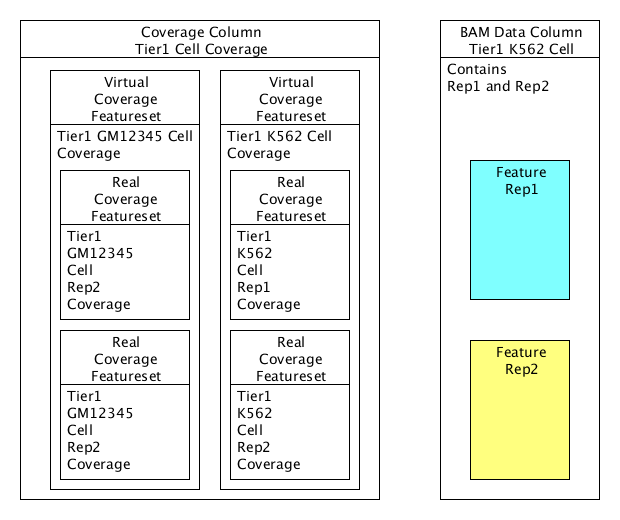
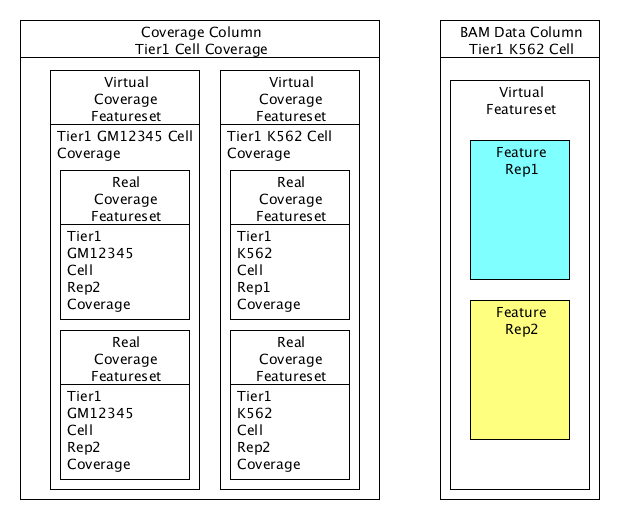
docs update for BAM config, fix to repeat draw features due to race conditon in view request merge and display

diff --git a/docs/IntWeb/Design/notes/data_config.html b/docs/IntWeb/Design/notes/data_config.html
@@ -68,6 +68,16 @@ Currently in a heatmap features are displayed in one canvas item which is named 
 </p>
 <p>This also means we keep all the processing of coverage data internal to ZMap.
 </p>
+<h6>Short reads data also need a virtual featureset</h6>
+<p>
+A subsequent re-implementation of the basic features display code requires a similar process when more than one short reads featureset is to be displayed in one column.  This is simple than the coverage configuration above as it requires only one virtual featureset.  See the diagram below and box for sample confiurgation.  The virtual featureset is needed to avoid data from different real featuresets overlapping when bumped.
+</p>
+<p>The difference between BAM coverage and data columns for the user is that coverage colums appear in the load columns dialog, and have several featuresets summarise in heatmap sub-columns, and data columns have the real features intermingled in the same column. Data may be requested via the coverage column menu. Both may only be requested for the mark.
+</p>
+<p><b>NOTE</b> that this is an interim solution and will change in the near future.
+</p>
+
+
 <p>
 Here is a picture of some sample featuresets and columns as needed for ENCODE data:
 <img src="Design/notes/virtual_fset.png" class="img" alt="column config example">
@@ -78,22 +88,36 @@ Configuration:
 # These are virtual featuresets; data from several real featuresets is intermingled into one heatmap
 # Each heatmap is displayed staggered in one column
 Tier1_K562_Cell_coverage = Tier1_K562_Cell_Rep1_Coverage; Tier1_K562_Cell_Rep2_Coverage
-Tier1_GM12345_Cell_coverage  =Tier1_GM12345_Cell_Coverage; Tier1_GM12345_Cell_Rep2_Coverage
+Tier1_GM12345_Cell_coverage  = Tier1_GM12345_Cell_Coverage; Tier1_GM12345_Cell_Rep2_Coverage
+
+# this is a virtual featureset that holds all the data from several real ones
+# data is displayed as normal basic features
+Tier1_K562_Cell_features = Tier1_K562_Cell_Rep1; Tier1_K562_Cell_Rep2
+
 
 [Columns]
-# The data column contains two featuresets: data is intermingled
-Tier1_K562_Cell = Tier1_K562_Cell_Rep1; Tier1_K562_Cell_Rep2
+# The data column contains two featuresets: data is intermingled but stored in a virutal featureset
+Tier1_K562_Cell = Tier1_K562_Cell_features
+
 # The coverage column contains some virtual featuresets
 Tier1_Cell_Coverage = Tier1_K562_Cell_coverage; Tier1_GM12345_Cell_coverage
+
 
 [Featureset-related]
 # we relate the virtual coverage featureset to the data column
 Tier1_K562_Cell_related = Tier1_K562_Cell
+
+# we also need to ensure that data may only be request from the mark and does not appea on the load columns dialog.
+[ZMap]
+seq_data = Tier1_K562_Cell_features; Tier1_K562_Cell_Rep1; Tier1_K562_Cell_Rep2
+columns = Tier1_Cell_Coverage
 </pre>
 Result:<br />
 When we right click on a coverage featureset (happens to be virtual)
-we request a related column, that contains some real featuresets
+we request a related column, that contains some real featuresets.
 </p>
+
+
 
 <h5>Notes from implementation</h5>
 <p>This is quite instructive in the sense that we can see how complex the configuration is and how it has become tangled.  There are a few places in the code where it has been necessary to invent ACEDB style configuration data as it is needed for various functions, and this at times can overwrite the data read in at startup.  <b>NOTE</b>:What appears here may only be partial documentation.

diff --git a/src/zmapView/zmapView.c b/src/zmapView/zmapView.c
@@ -390,7 +390,6 @@ ZMapViewWindow zMapViewCreate(GtkWidget *xremote_widget, GtkWidget *view_contain
 
   zmap_view->context_map.column_2_styles = zMap_g_hashlist_create() ;
 
-
   return view_window ;
 }
 
@@ -2393,7 +2392,6 @@ static ZMapView createZMapView(GtkWidget *xremote_widget, char *view_name, GList
 
   zmap_view->session_data->sequence = zmap_view->view_sequence->sequence ;
 
-
   return zmap_view ;
 }
 
@@ -4015,6 +4013,17 @@ static gboolean justMergeContext(ZMapView view, ZMapFeatureContext *context_inou
 
   zMapStartTimer("Merge Context","") ;
 
+  if(!view->features)
+  {
+	/* we need a context with a master_align with a block, all with valid sequence coordinates */
+	/* this is all back to front, we only know what we requested when the answer comes back */
+	/* and we need to have asked the same qeusrtion 3 times */
+	ZMapFeatureBlock block = zMap_g_hash_table_nth(new_features->master_align->blocks, 0) ;
+
+	view->features = zMapFeatureContextCopyWithParents((ZMapFeatureAny) block) ;
+  }
+
+
   if(!view->view_sequence->end)
     {
       view->view_sequence->start = new_features->master_align->sequence_span.x1;
@@ -4102,10 +4111,13 @@ static gboolean justMergeContext(ZMapView view, ZMapFeatureContext *context_inou
 	  char *y = (char *) g_quark_to_string(GPOINTER_TO_UINT(l->data));
 	  x = g_strconcat(x," ",y,NULL);
 	}
-      zMapLogWarning(x,"");
+//      zMapLogWarning(x,"");
+printf("%s\n",x);
+
     }
 
-  merge = zMapFeatureContextMerge(&(view->features), &new_features, &diff_context,featureset_names) ;
+  merge = zMapFeatureContextMerge(&(view->features), &new_features, &diff_context, featureset_names) ;
+
 
   //  printf("just Merge view = %s\n",zMapFeatureContextGetDNAStatus(view->features) ? "yes" : "non");
   //  printf("just Merge diff = %s\n",zMapFeatureContextGetDNAStatus(diff_context) ? "yes" : "non");
@@ -4139,6 +4151,7 @@ static gboolean justMergeContext(ZMapView view, ZMapFeatureContext *context_inou
 	      x = g_strconcat(x,",",y,NULL);
 	    }
 	  zMapLogWarning(x,"");
+	  printf("%s\n",x);
 	}
 
       // mask ESTs with mRNAs if configured
@@ -4415,6 +4428,7 @@ static ZMapFeatureContext createContext(ZMapFeatureSequenceMap sequence, GList *
 
 
   /* Add other alignments if any were specified in a config file. */
+  /* NOTE it's iffed out */
   addAlignments(context) ;
 
 

diff --git a/src/zmapWindow/items/zmapWindowCanvasFeaturesetBump.c b/src/zmapWindow/items/zmapWindowCanvasFeaturesetBump.c
@@ -336,10 +336,10 @@ gboolean zMapWindowCanvasFeaturesetBump(ZMapWindowCanvasItem item, ZMapStyleBump
 		break;
 	}
 
-
 	/* in case we get a bump before a paint eg in initial display */
       if(!featureset->display_index)
 	  zMapWindowCanvasFeaturesetIndex(featureset);
+
 
 	/* process all features */
 
@@ -428,6 +428,7 @@ gboolean zMapWindowCanvasFeaturesetBump(ZMapWindowCanvasItem item, ZMapStyleBump
 
 	featureset->bumped = TRUE;
 	featureset->bump_width = bump_data->offset;
+	featureset->bump_mode = bump_mode;
 
 	switch(bump_mode)
 	{
@@ -469,11 +470,9 @@ gboolean zMapWindowCanvasFeaturesetBump(ZMapWindowCanvasItem item, ZMapStyleBump
 			{
 				/* feature->bump offset is really column index till we set it here */
 				width = (double) GPOINTER_TO_UINT( g_hash_table_lookup( sub_col_width_G, GUINT_TO_POINTER( (int) feature->bump_col)));
-printf("offset feature %s @ %p %f,%f %d = %f\n",g_quark_to_string(feature->feature->unique_id),feature,feature->y1,feature->y2,(int) feature->bump_col, width);
+//printf("offset feature %s @ %p %f,%f %d = %f\n",g_quark_to_string(feature->feature->unique_id),feature,feature->y1,feature->y2,(int) feature->bump_col, width);
 				feature->bump_offset = width;
 			}
-			else
-				printf("bump feature flags = %lx\n",feature->flags);
 		}
 
 
@@ -486,6 +485,7 @@ printf("offset feature %s @ %p %f,%f %d = %f\n",g_quark_to_string(feature->featu
 	default:
 		break;
 	}
+//	printf("bump 3: %s %d\n",g_quark_to_string(featureset->id),zMapSkipListCount(featureset->display_index));
 
 	if(featureset->bump_width + featureset->dx > ZMAP_WINDOW_MAX_WINDOW)
 	{
@@ -589,7 +589,7 @@ BCR bump_overlap(ZMapWindowCanvasFeature feature, BumpFeatureset bump_data, BCR 
   if(width < bump_data->width)
   	g_hash_table_replace(sub_col_width_G, GUINT_TO_POINTER(new_range->column), GUINT_TO_POINTER((int) bump_data->width));
 
-  printf("feature %s @ %p %f,%f col %d\n",g_quark_to_string(feature->feature->unique_id),feature,feature->y1,feature->y2,new_range->column);
+//  printf("feature %s @ %p %f,%f col %d\n",g_quark_to_string(feature->feature->unique_id),feature,feature->y1,feature->y2,new_range->column);
   return pos_list;
 }
 

diff --git a/src/zmapFeature/zmapFeatureContext.c b/src/zmapFeature/zmapFeatureContext.c
@@ -1052,6 +1052,42 @@ static void revCompFeature(ZMapFeature feature, int start_coord, int end_coord)
 }
 
 
+static ZMapFeatureContextExecuteStatus print_featureset_name(GQuark key,
+                                                               gpointer data,
+                                                               gpointer user_data,
+                                                               char **error_out)
+{
+  ZMapFeatureAny feature_any = (ZMapFeatureAny)data;
+  ZMapFeatureSet       feature_set   = NULL;
+  ZMapFeatureStructType feature_type = ZMAPFEATURE_STRUCT_INVALID;
+  ZMapFeatureContextExecuteStatus status = ZMAP_CONTEXT_EXEC_STATUS_DONT_DESCEND;
+
+  feature_type = feature_any->struct_type;
+
+  switch(feature_type)
+    {
+    case ZMAPFEATURE_STRUCT_FEATURESET:
+      feature_set = (ZMapFeatureSet)feature_any;
+      printf("    featureset %s\n",g_quark_to_string(feature_set->unique_id));
+
+    case ZMAPFEATURE_STRUCT_CONTEXT:
+    case ZMAPFEATURE_STRUCT_ALIGN:
+    case ZMAPFEATURE_STRUCT_BLOCK:
+	status = ZMAP_CONTEXT_EXEC_STATUS_OK;
+      break;
+    default:
+      break;
+    }
+
+  return status;
+}
+
+void zMapPrintContextFeaturesets(ZMapFeatureContext context)
+{
+	zMapFeatureContextExecute((ZMapFeatureAny) context,
+                               ZMAPFEATURE_STRUCT_FEATURESET,
+                               print_featureset_name, NULL);
+}
 
 #ifdef RDS_TEMPLATE_USER_DATALIST_FOREACH
 /* Use this function while descending through a feature context */
@@ -1067,9 +1103,8 @@ static ZMapFeatureContextExecuteStatus templateDataListForeach(GQuark key,
   ZMapFeatureSet       feature_set   = NULL;
   ZMapFeature          feature_ft    = NULL;
   ZMapFeatureStructType feature_type = ZMAPFEATURE_STRUCT_INVALID;
-  ZMapFeatureContextExecuteStatus status = ZMAP_CONTEXT_EXEC_STATUS_ERROR;
+  ZMapFeatureContextExecuteStatus status = ZMAP_CONTEXT_EXEC_STATUS_OK;
 
-  YourDataType  all_data = (YourDataType)user_data;
 
   feature_type = feature_any->struct_type;
 

diff --git a/src/zmapWindow/items/zmapWindowCanvasFeatureset.c b/src/zmapWindow/items/zmapWindowCanvasFeatureset.c
@@ -950,7 +950,7 @@ void zmap_window_featureset_item_link_sideways(ZMapWindowFeaturesetItem fi)
 	GList *l;
 	ZMapWindowCanvasFeature left,right;		/* feat -ures */
 #if !CANVAS_FEATURESET_LINK_FEATURE
-	static GQuark name = 0;
+	GQuark name = 0;
 #endif
 
 	/* we use the featureset features list which sits there in parallel with the skip list (display index) */
@@ -958,8 +958,8 @@ void zmap_window_featureset_item_link_sideways(ZMapWindowFeaturesetItem fi)
 	/* link same name features with ascending query start coord */
 
 	/* if we ever need to link by something other than same name
-	 * then we can define a featuyre type specific sort function
-	 * and revice the zMapWindowCanvasFeaturesetLinkFeature() fucntion
+	 * then we can define a feature type specific sort function
+	 * and revive the zMapWindowCanvasFeaturesetLinkFeature() fucntion
 	 */
 	fi->features = g_list_sort(fi->features,zMapFeatureNameCmp);
 
@@ -998,6 +998,7 @@ void zMapWindowCanvasFeaturesetIndex(ZMapWindowFeaturesetItem fi)
 
     fi->features = g_list_sort(fi->features,zMapFeatureCmp);
     fi->display_index = zMapSkipListCreate(fi->features, NULL);
+    zMapLogWarning("CFS index 3: %s %d\n",g_quark_to_string(fi->id),zMapSkipListCount(fi->display_index));
 }
 
 
@@ -1501,6 +1502,8 @@ void zMapWindowFeaturesetAddItem(FooCanvasItem *foo, ZMapFeature feature, double
 	  /* even if they come in order we still have to sort them to be sure so just add to the front */
   featureset_item->features = g_list_prepend(featureset_item->features,feat);
   featureset_item->n_features++;
+
+//  printf("add item %s/%s @%p: %ld/%d\n",g_quark_to_string(featureset_item->id),g_quark_to_string(feature->unique_id),feature, featureset_item->n_features, g_list_length(featureset_item->features));
 
   /* add to the display bins if index already created */
   if(featureset_item->display_index)

diff --git a/src/zmapWindow/zmapWindow.c b/src/zmapWindow/zmapWindow.c
@@ -567,7 +567,8 @@ void zMapWindowDisplayData(ZMapWindow window, ZMapWindowState state,
 
       realiseData->window = window ;
       realiseData->feature_sets = feature_sets ;
-      window->exposeHandlerCB = g_signal_connect(GTK_OBJECT(window->canvas), "expose_event",
+
+	window->exposeHandlerCB = g_signal_connect(GTK_OBJECT(window->canvas), "expose_event",
 						 GTK_SIGNAL_FUNC(exposeHandlerCB),
 						 (gpointer)realiseData) ;
     }
@@ -2800,6 +2801,8 @@ static gboolean exposeHandlerCB(GtkWidget *widget, GdkEventExpose *expose, gpoin
    * sequence as the previous one, will trigger another call to this function.  */
   g_signal_handler_disconnect(G_OBJECT(widget), realiseData->window->exposeHandlerCB);
 
+printf("exposeHandlerCB send client event\n");
+
   sendClientEvent(realiseData->window, realiseData->feature_sets) ;
 
   if(realiseData->window->curr_locking == ZMAP_WINLOCK_VERTICAL)
@@ -2882,7 +2885,6 @@ static gboolean dataEventCB(GtkWidget *widget, GdkEventClient *event, gpointer c
       window = window_data->window ;
       feature_sets = window_data->data ;
 
-
       zmapWindowBusy(window, TRUE) ;
 
       /* ****Remember that someone needs to free the data passed over....****  */
@@ -2894,8 +2896,6 @@ static gboolean dataEventCB(GtkWidget *widget, GdkEventClient *event, gpointer c
 	diff_context = feature_sets->new_features ;
       else
 	diff_context = feature_sets->current_features ;
-
-
 
       /* Draw the features on the canvas */
 

diff --git a/src/zmapFeature/zmapFeature.c b/src/zmapFeature/zmapFeature.c
@@ -1513,8 +1513,16 @@ ZMapFeatureContextMergeCode zMapFeatureContextMerge(ZMapFeatureContext *merged_c
 
   /* If there are no current features we just return the new one as the merged and the diff,
    * otherwise we need to do a merge of the new and current feature sets. */
+
+  /* the view is now initialised with an empty context to aoid
+     race conditions  between Rx featuresets and display
+   */
+  zMapAssert(current_context);
+#if 0
   if (!current_context)
+	/* if several servers supply data before the first gets painted then some get painted twice (data is duplicated in the canvas) */
     {
+
       if (merge_debug_G)
         zMapLogWarning("%s", "No current context, returning complete new...") ;
 
@@ -1531,6 +1539,7 @@ ZMapFeatureContextMergeCode zMapFeatureContextMerge(ZMapFeatureContext *merged_c
       status = ZMAPFEATURE_CONTEXT_OK ;
     }
   else
+#endif
     {
       /* Here we need to merge for all alignments and all blocks.... */
 

diff --git a/src/zmapUtils/zmapSkipList.c b/src/zmapUtils/zmapSkipList.c
@@ -184,6 +184,16 @@ ZMapSkipList zMapSkipListFirst(ZMapSkipList head)
 }
 
 
+int zMapSkipListCount(ZMapSkipList head)
+{
+	int i;
+
+	head = zMapSkipListFirst(head);
+	for(i = 0; head; i++)
+		head = head->next;
+	return(i);
+}
+
 
 /* we could had a tail pointer handy, but we'd need to wrap the data in a class thingy
  * keep it simple: we don't expect to call this fucntion repeatedly

diff --git a/src/include/ZMap/zmapSkipList.h b/src/include/ZMap/zmapSkipList.h
@@ -95,6 +95,7 @@ ZMapSkipList zMapSkipListAdd(ZMapSkipList head, GCompareFunc cmp, gpointer key);
 ZMapSkipList zMapSkipListRemove(ZMapSkipList sl, ZMapSkipListFreeFunc free_func);
 void zMapSkipListDestroy(ZMapSkipList skip_list, ZMapSkipListFreeFunc free_func);
 
+int zMapSkipListCount(ZMapSkipList head);
 
 #define SKIP_LIST_CLASS	0
 

diff --git a/src/include/ZMap/zmapFeature.h b/src/include/ZMap/zmapFeature.h
@@ -1140,6 +1140,8 @@ void zMapFeatureContextDestroy(ZMapFeatureContext context, gboolean free_data) ;
 
 gboolean zMapFeatureContextGetDNAStatus(ZMapFeatureContext context);
 
+void zMapPrintContextFeaturesets(ZMapFeatureContext context);
+
 /* THOSE IN FEATURECONTEXT.C */
 
 GList *zMapFeatureString2QuarkList(char *string_list) ;

diff --git a/src/zmapWindow/zmapWindowDrawFeatures.c b/src/zmapWindow/zmapWindowDrawFeatures.c
@@ -776,7 +776,7 @@ int zmapWindowDrawFeatureSet(ZMapWindow window,
 
   /* We shouldn't be called if there is no forward _AND_ no reverse col..... */
   zMapAssert(forward_col_wcp || reverse_col_wcp) ;
-#define MODULE_STATS	1
+#define MODULE_STATS	0
 #if MODULE_STATS
 	double time = zMapElapsedSeconds;
 #endif
